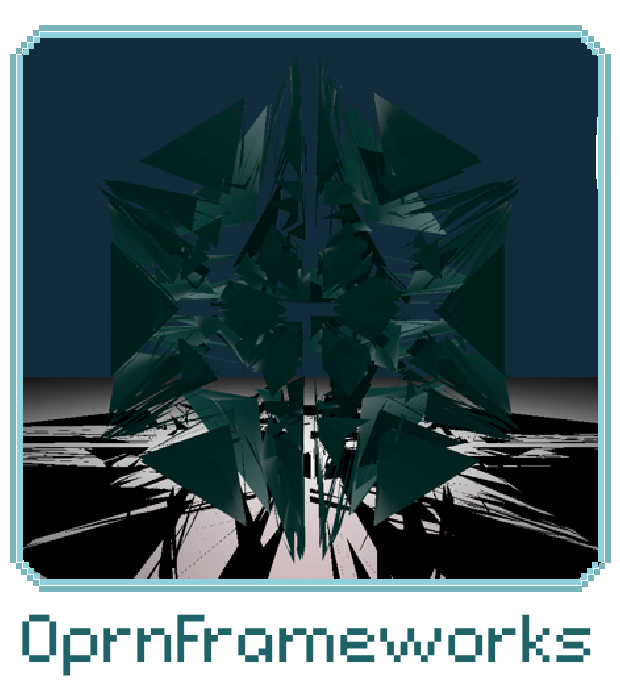
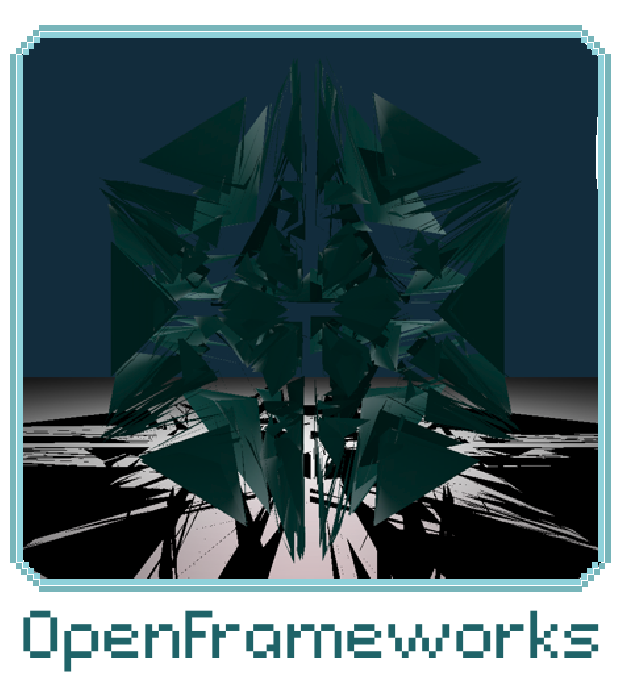
adding projects to index

Changed region(s): [[0.0306, 0.8712, 0.9806, 0.9614]]

diff --git a/index.html b/index.html
@@ -53,12 +53,23 @@
 
             </div>
         
-        <a href="../pbrt.html">
-        <img src="https://rezum.github.io/pic/pbrt.png">
-        </a>
+        
 
 
+        <a href="openframework.html">
+            <img src="https://rezum.github.io/pic/openframeworks.png">
+            </a>
 
+            <a href="houdini.html">
+                <img src="https://rezum.github.io/pic/houdini.gif">
+
+                <h2> Houdini </h2>
+                </a>
+
+
+            <a href="pbrt.html">
+                <img src="https://rezum.github.io/pic/pbrt.png">
+                </a>
 
 
     </div>
